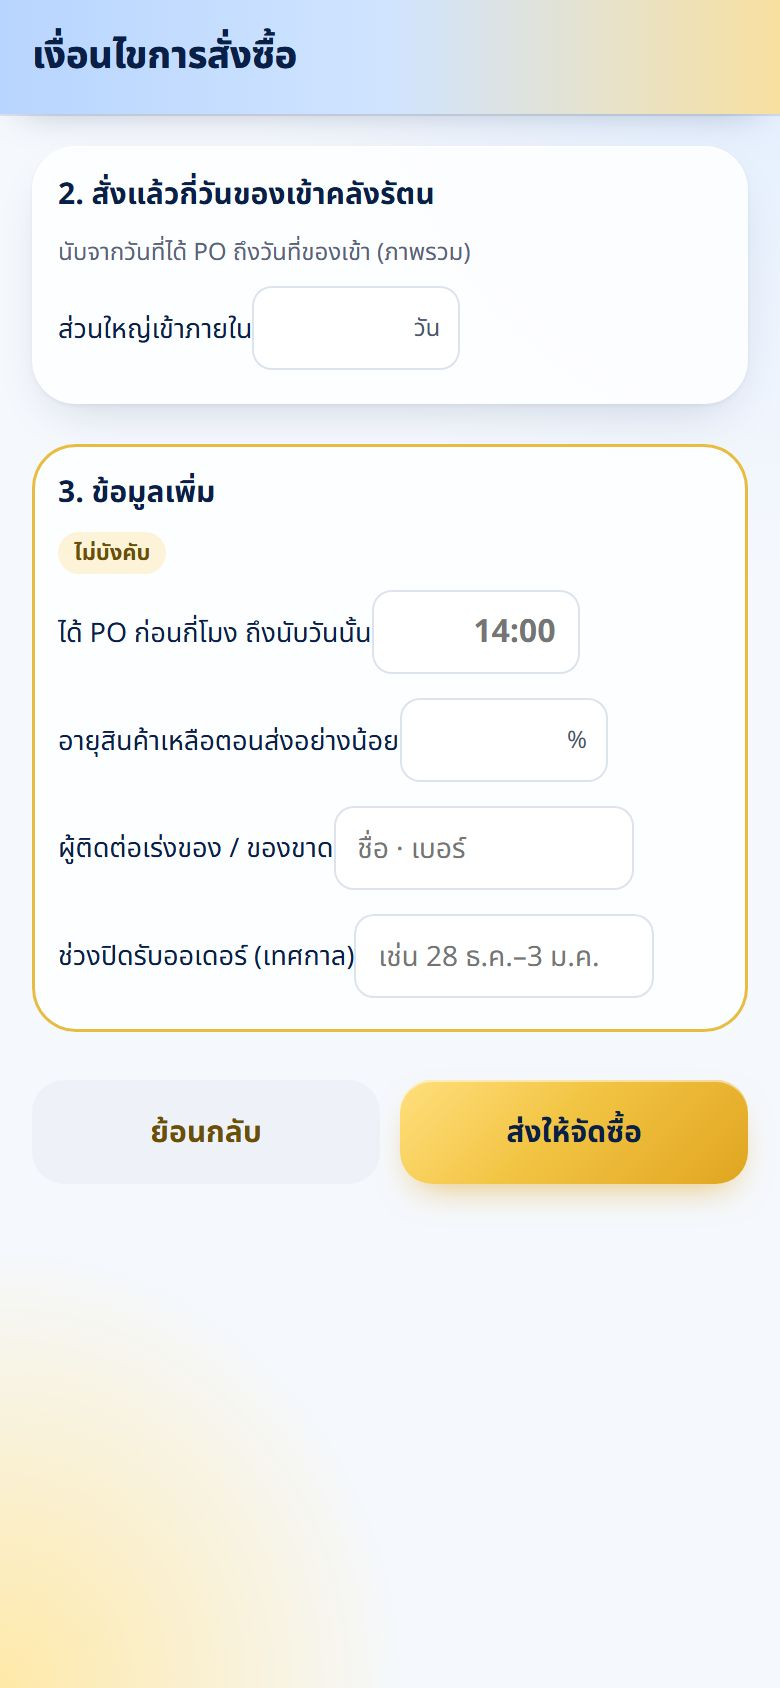
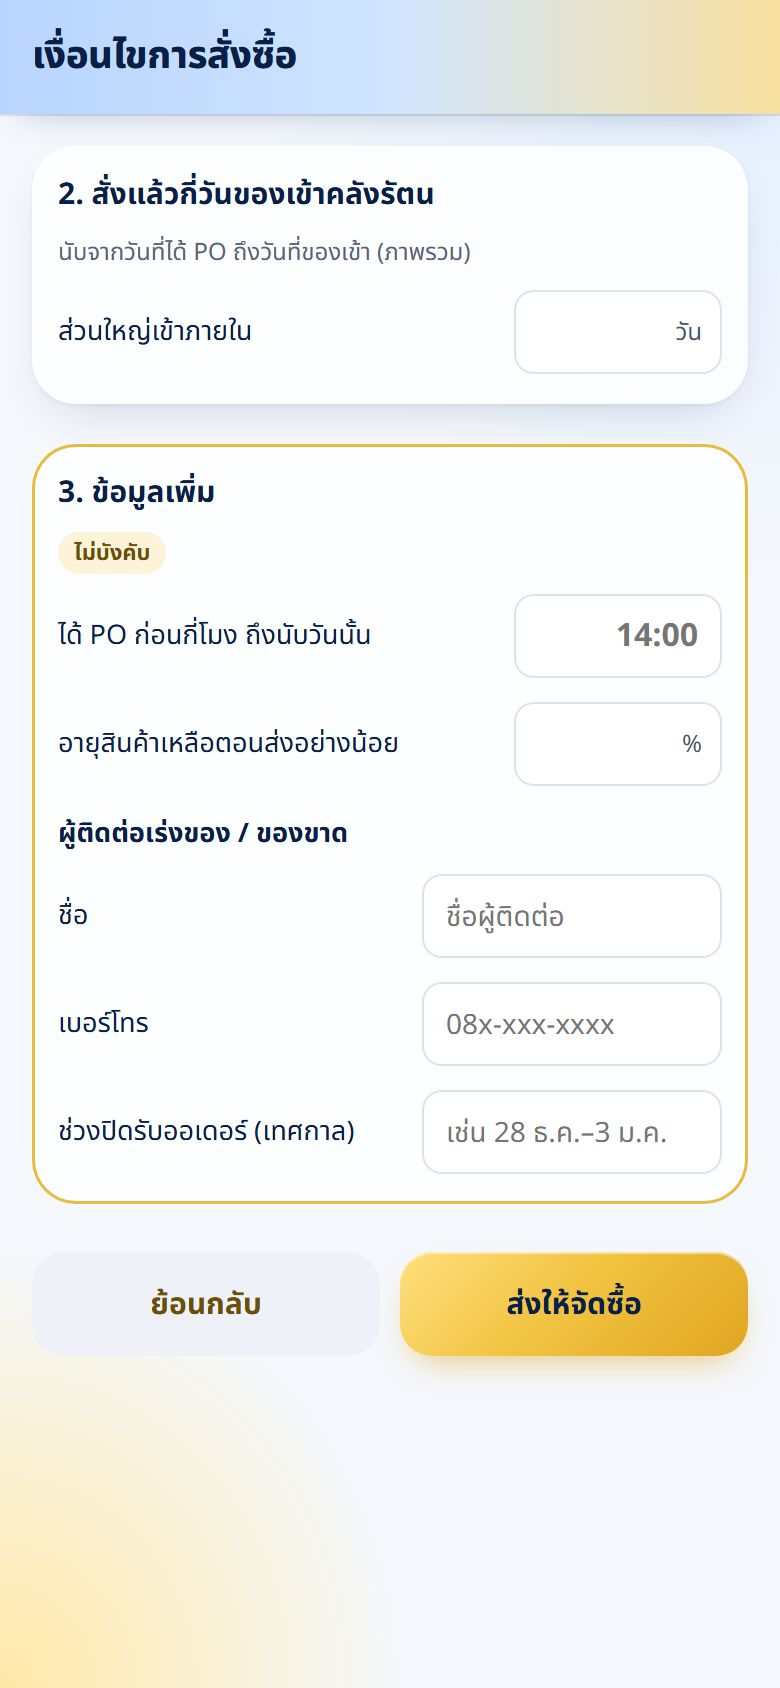
SupplyLink v1.79.3: แบบสอบถาม ช่องกรอกชิดขวา + ชื่อ/เบอร์ผู้ติดต่อแยกช่อง · guide v1.9.2

diff --git a/rattana-supplylink.html b/rattana-supplylink.html
@@ -3,7 +3,7 @@
 <head>
 <meta charset="utf-8">
 <meta name="viewport" content="width=device-width, initial-scale=1, viewport-fit=cover">
-<title>SupplyLink — คู่ค้ารัตนไพบูลย์ v1.79.2</title>
+<title>SupplyLink — คู่ค้ารัตนไพบูลย์ v1.79.3</title>
 <meta name="theme-color" content="#B8D5FF">
 <link rel="icon" type="image/png" sizes="64x64" href="icons/rattana-supplylink-64.png">
 <link rel="icon" type="image/png" sizes="256x256" href="icons/rattana-supplylink.png">
@@ -1469,7 +1469,7 @@ body{font-family:var(--font);
 .otopt{display:flex;align-items:center;gap:10px;border:0;background:var(--fill);border-radius:12px;padding:8px 10px;text-align:left;font:inherit;color:inherit;width:100%}.otopt.on{background:var(--gold-tint);box-shadow:inset 0 0 0 1.5px var(--gold)}.otopt b{display:block;font-size:13.5px}.otopt small{display:block;font-size:11.5px;color:var(--ink-3)}.otopt{cursor:pointer}.otck{width:22px;height:22px;border-radius:6px;border:2px solid #B9C3D4;background:var(--card);flex-shrink:0;position:relative}.otck.on{background:var(--navy);border-color:var(--navy)}.otck.on:after{content:'✓';color:#fff;font-size:13px;position:absolute;left:4px;top:0}
 .otsub{display:flex;flex-direction:column;gap:6px;padding:8px 0 4px 10px;border-left:2px solid var(--line)}
 .otin{display:inline-flex;align-items:center;gap:4px;height:42px;border-radius:10px;background:var(--card);box-shadow:inset 0 0 0 1px var(--line);padding:0 10px;flex-shrink:0;width:104px}.otin.w{width:150px}.otin input{border:0;background:transparent;width:100%;min-width:0;font:inherit;font-size:16px;font-weight:700;text-align:right;color:var(--ink);outline:0}.otin.w input{font-weight:400;font-size:14px;text-align:left}.otin i{font-style:normal;font-size:12px;color:var(--ink-3)}
-.otrow{gap:8px;min-height:46px;font-size:13.5px}
+.otrow{display:flex;align-items:center;gap:8px;min-height:46px;font-size:13.5px}.otrow>.grow{flex:1 1 auto;min-width:0}.otrow>.otin{margin-left:auto}.otlbl{font-size:13.5px;font-weight:700;margin-top:4px}
 .otpromo{display:flex;flex-direction:column;gap:6px;background:var(--teal-soft);border-radius:12px;padding:10px}.otph{font-size:13px;color:var(--teal)}.otsfi{display:flex;flex-direction:column;gap:6px;background:var(--card);border-radius:10px;padding:9px}.otpg{display:grid;grid-template-columns:1fr 1fr;gap:8px}.otpg label{display:flex;flex-direction:column;gap:3px;font-size:11.5px;color:var(--ink-3)}.otpg .otin{width:100%}.otsum{font-size:12.5px;font-weight:700;color:var(--teal);min-height:16px}.otadd{border:1.5px dashed var(--gold);background:transparent;border-radius:10px;padding:8px;font:inherit;font-size:12.5px;font-weight:700;color:var(--gold-deep)}
 .otb{display:flex;flex-direction:column;gap:7px}.otex{display:block;font-size:11.5px;color:var(--ink-3);white-space:normal}.otzr{display:flex;flex-direction:column;padding-bottom:6px;border-bottom:1px solid var(--line)}
 .otsug{box-shadow:inset 0 0 0 1.5px var(--gold)}.ottag{align-self:flex-start;font-size:11px;font-weight:700;background:var(--gold-tint);color:var(--gold-deep);border-radius:var(--r-pill);padding:2px 8px}
@@ -2038,7 +2038,7 @@ body.otgate #tabbar,body.otgate #railnav{display:none!important}
 
 /* ══ ตั้งค่า — แก้ตรงนี้ที่เดียว ══ */
 var CONFIG = {
-  APP_VERSION: 'v1.79.2',
+  APP_VERSION: 'v1.79.3',
   /* LIFF ของแอปนี้: LINE Developers → provider RTNPurchase → channel "RTNPurchase Supplier" (2011693023) → แท็บ LIFF
      ต้องอยู่ channel เดียวกับระบบลงทะเบียนเดิม ถึงจะได้ LINE User ID ตรงกับแท็บ Login Users · ว่าง = ยังไม่เปิดใช้จริง */
   LIFF_ID: '2011693023-xbdsN1K7',
@@ -4065,13 +4065,14 @@ function otBrandSt(b){ var o = S.ot.brands; return o[b] || (o[b] = { modes:[], c
 function otInit(){
   if (S.ot && S.ot.code === VENDOR.code) return S.ot;
   var d = BUNDLE && BUNDLE.orderTerms && BUNDLE.orderTerms.data || null;
-  var o = { code:VENDOR.code, step:1, q:'', all:{ on:false, cs:'', baht:'', tiers:[otTier()], pay:'in' }, some:false, none:false, brands:{}, lead:'', cut:'', life:'', contact:'', close:'' };
+  var o = { code:VENDOR.code, step:1, q:'', all:{ on:false, cs:'', baht:'', tiers:[otTier()], pay:'in' }, some:false, none:false, brands:{}, lead:'', cut:'', life:'', contact:'', cname:'', ctel:'', close:'' };
   if (d) {
     if (d.all) o.all = { on:true, cs:String(d.all.cs || ''), baht:String(d.all.baht || ''), tiers:(d.all.tiers || []).length ? d.all.tiers.map(function (t) { return { q:String(t.q), t:t.t, v:String(t.v) }; }) : [otTier()], pay:d.all.pay || 'in' };
     o.some = !!d.some; o.none = !!d.none;
     (d.brands || []).forEach(function (b) { var x = { modes:b.modes || [], cs:String(b.cs || ''), tiers:(b.tiers || []).length ? b.tiers.map(function (t) { return { q:String(t.q), t:t.t, v:String(t.v) }; }) : [otTier()], pay:b.pay || 'in', sizes:{}, prods:{} };
       (b.sizes || []).forEach(function (z) { x.sizes[z.s] = String(z.cs); }); (b.prods || []).forEach(function (z) { x.prods[z.id] = String(z.cs); }); o.brands[b.b] = x; });
     ['lead', 'cut', 'life', 'contact', 'close'].forEach(function (k) { o[k] = String(d[k] || ''); });
+    var ocp = o.contact.split(' · '); o.cname = String(d.cname || ocp[0] || ''); o.ctel = String(d.ctel || ocp.slice(1).join(' ') || '');   /* ชื่อ/เบอร์ แยกช่อง (เก็บรวมเป็น ชื่อ · เบอร์ เหมือนเดิม) */
   }
   return (S.ot = o);
 }
@@ -4131,10 +4132,12 @@ V.terms = function () {
     '<div class="card otq otsug" data-tweak="ข้อมูลเพิ่ม"><b>3. ข้อมูลเพิ่ม</b><span class="ottag">ไม่บังคับ</span>'+
       '<div class="row otrow"><span class="grow">ได้ PO ก่อนกี่โมง ถึงนับวันนั้น</span>'+otInp('cut', o.cut, '', '14:00')+'</div>'+
       '<div class="row otrow"><span class="grow">อายุสินค้าเหลือตอนส่งอย่างน้อย</span>'+otInp('life', o.life, '%')+'</div>'+
-      '<div class="row otrow"><span class="grow">ผู้ติดต่อเร่งของ / ของขาด</span>'+otInp('contact', o.contact, '', 'ชื่อ · เบอร์', true)+'</div>'+
+      '<div class="otlbl">ผู้ติดต่อเร่งของ / ของขาด</div>'+
+      '<div class="row otrow"><span class="grow">ชื่อ</span>'+otInp('cname', o.cname, '', 'ชื่อผู้ติดต่อ', true)+'</div>'+
+      '<div class="row otrow"><span class="grow">เบอร์โทร</span>'+otInp('ctel', o.ctel, '', '08x-xxx-xxxx', true).replace('inputmode="text"', 'inputmode="tel"')+'</div>'+
       '<div class="row otrow"><span class="grow">ช่วงปิดรับออเดอร์ (เทศกาล)</span>'+otInp('close', o.close, '', 'เช่น 28 ธ.ค.–3 ม.ค.', true)+'</div></div>';
   var last = step === 3, next = step === 1 && !o.some ? 3 : step + 1, prev = step === 3 && !o.some ? 1 : step - 1;
-  var force = need || S.otForce;                                  /* v1.79.2: ยังไม่ตอบ / มาจากปุ่ม LINE = ต้องตอบให้จบ ไม่มีปุ่มปิด/กลับ (Surat) */
+  var force = need || S.otForce;                                  /* v1.79.3: ยังไม่ตอบ / มาจากปุ่ม LINE = ต้องตอบให้จบ ไม่มีปุ่มปิด/กลับ (Surat) */
   return '<div class="scr" id="s-terms">'+hdr('เงื่อนไขการสั่งซื้อ', force ? '' : 'profile')+
     '<div class="body" data-tweak="เงื่อนไขการสั่งซื้อ">'+body+   /* ปุ่มอยู่ท้ายเนื้อหา เลื่อนลงสุดแล้วค่อยกด */
     '<div class="otbar" data-tweak="แถบปุ่มแบบสอบถาม">'+(step > 1 ? '<button class="btn line" data-act="otstep:'+prev+'">ย้อนกลับ</button>' : '')+
@@ -4147,7 +4150,7 @@ function otPayload(){
     brands:o.some ? G.map(function (g) { var st = o.brands[g.b]; if (!st || !st.modes.length) return null;
       return { b:g.b, modes:st.modes, cs:num(st.cs), tiers:tiers(st.tiers), pay:st.pay, sizes:g.sizes.map(function (z) { return { s:z.s, cs:num(st.sizes[z.s]) }; }).filter(function (z) { return z.cs; }),
         prods:g.items.map(function (p) { return { id:p.id, name:p.name, cs:num(st.prods[p.id]) }; }).filter(function (z) { return z.cs; }) }; }).filter(Boolean) : [],
-    lead:num(o.lead), cut:o.cut, life:num(o.life), contact:o.contact, close:o.close };
+    lead:num(o.lead), cut:o.cut, life:num(o.life), contact:[String(o.cname || '').trim(), String(o.ctel || '').trim()].filter(Boolean).join(' · '), cname:String(o.cname || '').trim(), ctel:String(o.ctel || '').trim(), close:o.close };
 }
 
 /* ══ สินค้าที่ซัพเอามาให้ (CB) (v1.77 · Surat 2026-11-05) ══

diff --git a/supplylink-guide.html b/supplylink-guide.html
@@ -3,7 +3,7 @@
 <head>
 <meta charset="utf-8">
 <meta name="viewport" content="width=device-width,initial-scale=1,viewport-fit=cover">
-<title>ฝึกใช้ SupplyLink v1.9.1</title>
+<title>ฝึกใช้ SupplyLink v1.9.2</title>
 <link rel="preconnect" href="https://fonts.googleapis.com">
 <link href="https://fonts.googleapis.com/css2?family=Noto+Sans+Thai:wght@400;500;600;700&display=swap" rel="stylesheet">
 <style>
@@ -138,7 +138,7 @@ button{font:inherit;cursor:pointer}
 
 <script>
 (function () {
-  var VER = 'v1.9.1', APP = 'https://liff.line.me/2011693023-xbdsN1K7';
+  var VER = 'v1.9.2', APP = 'https://liff.line.me/2011693023-xbdsN1K7';
   var IMG = {"h0":"supplylink-guide/h0.jpg","hinc":"supplylink-guide/hinc.jpg","hdef":"supplylink-guide/hdef.jpg","hpo":"supplylink-guide/hpo.jpg","s2":"supplylink-guide/s2.jpg","s4":"supplylink-guide/s4.jpg","s5":"supplylink-guide/s5.jpg","s6":"supplylink-guide/s6.jpg","s7":"supplylink-guide/s7.jpg","s9":"supplylink-guide/s9.jpg","s10":"supplylink-guide/s10.jpg","s11":"supplylink-guide/s11.jpg","z1":"supplylink-guide/z1.jpg","zm":"supplylink-guide/zm.jpg","zt":"supplylink-guide/zt.jpg","zs":"supplylink-guide/zs.jpg","zi":"supplylink-guide/zi.jpg","q1":"supplylink-guide/q1.jpg","q2":"supplylink-guide/q2.jpg","q3":"supplylink-guide/q3.jpg","q4":"supplylink-guide/q4.jpg","q5":"supplylink-guide/q5.jpg","q6":"supplylink-guide/q6.jpg","q7":"supplylink-guide/q7.jpg","q8":"supplylink-guide/q8.jpg","x1":"supplylink-guide/x1.jpg","x2":"supplylink-guide/x2.jpg","x3":"supplylink-guide/x3.jpg","x4":"supplylink-guide/x4.jpg","x5":"supplylink-guide/x5.jpg","x6":"supplylink-guide/x6.jpg","x7":"supplylink-guide/x7.jpg","a2":"supplylink-guide/a2.jpg","a3":"supplylink-guide/a3.jpg","a5":"supplylink-guide/a5.jpg","d2":"supplylink-guide/d2.jpg","a4":"supplylink-guide/a4.jpg","d3":"supplylink-guide/d3.jpg","d4":"supplylink-guide/d4.jpg","p1":"supplylink-guide/p1.jpg","p1b":"supplylink-guide/p1b.jpg","b2":"supplylink-guide/b2.jpg","b3":"supplylink-guide/b3.jpg","p5":"supplylink-guide/p5.jpg","c2":"supplylink-guide/c2.jpg","c3":"supplylink-guide/c3.jpg","k1":"supplylink-guide/k1.jpg","k2":"supplylink-guide/k2.jpg","k3":"supplylink-guide/k3.jpg","k4":"supplylink-guide/k4.jpg","k5":"supplylink-guide/k5.jpg","k6":"supplylink-guide/k6.jpg","k7":"supplylink-guide/k7.jpg","k9":"supplylink-guide/k9.jpg","k10":"supplylink-guide/k10.jpg","k11":"supplylink-guide/k11.jpg","n1":"supplylink-guide/n1.jpg","n2":"supplylink-guide/n2.jpg","n3":"supplylink-guide/n3.jpg","n4":"supplylink-guide/n4.jpg","n5":"supplylink-guide/n5.jpg","n6":"supplylink-guide/n6.jpg","n7":"supplylink-guide/n7.jpg","n8":"supplylink-guide/n8.jpg","n9":"supplylink-guide/n9.jpg","g1":"supplylink-guide/g1.jpg","g2":"supplylink-guide/g2.jpg","g3":"supplylink-guide/g3.jpg","g4":"supplylink-guide/g4.jpg","m1":"supplylink-guide/m1.jpg","m2":"supplylink-guide/m2.jpg","m3":"supplylink-guide/m3.jpg","m4":"supplylink-guide/m4.jpg","m5":"supplylink-guide/m5.jpg","f1":"supplylink-guide/f1.jpg","f2":"supplylink-guide/f2.jpg","f3":"supplylink-guide/f3.jpg","f4":"supplylink-guide/f4.jpg","dws":"supplylink-guide/dws.jpg","dwh":"supplylink-guide/dwh.jpg","stk":"supplylink-guide/stk.jpg","stk2":"supplylink-guide/stk2.jpg","stkh":"supplylink-guide/stkh.jpg","cbi":"supplylink-guide/cbi.jpg","cb1":"supplylink-guide/cb1.jpg","cb2":"supplylink-guide/cb2.jpg","cb3":"supplylink-guide/cb3.jpg","cbp":"supplylink-guide/cbp.jpg","ot0":"supplylink-guide/ot0.jpg","ot1":"supplylink-guide/ot1.jpg","ot2":"supplylink-guide/ot2.jpg","ot3":"supplylink-guide/ot3.jpg"};                                       /* แทนด้วยรูปตอน build */
   var HAND = '<svg class="hand" viewBox="0 0 48 48" aria-hidden="true"><path d="M19 6c2 0 3.5 1.6 3.5 3.6V22l1-.1V18c0-2 1.6-3.4 3.4-3.4S30.3 16 30.3 18v4.4l1-.1v-2.6c0-1.9 1.5-3.3 3.3-3.3s3.3 1.5 3.3 3.3v3.6l.8-.1c1.8 0 3.3 1.5 3.3 3.3V34c0 6.6-5.4 12-12 12h-3.4c-3.8 0-7.4-1.8-9.6-4.9L8.5 30.6c-1-1.4-.7-3.4.7-4.4 1.4-1 3.3-.8 4.4.5l2 2.4V9.6C15.6 7.6 17.1 6 19 6z" fill="#fff" stroke="#0A1F47" stroke-width="2.4" stroke-linejoin="round"/></svg>';
   var FLOWCARD = function () {                              /* ส่งแล้วเกิดอะไรขึ้น: ซัพตอบ → จัดซื้อยืนยัน → เปิด PO จริง */
@@ -256,8 +256,8 @@ button{font:inherit;cursor:pointer}
       { img:'ot1', r:[29, 338, 332, 53], h:'ตอบก่อนใช้แอป', d:'บริษัทที่ยังไม่ตอบ เปิดแอปจะเจอหน้านี้ก่อน · เลือกได้หลายข้อ: รวมทุกแบรนด์ · บางแบรนด์มีขั้นต่ำ · ไม่มีขั้นต่ำ' },
       { img:'ot1', r:[112, 415, 67, 26], h:'ขั้นต่ำถึงส่ง + โปรตามจำนวน', d:'ใส่ขั้นต่ำเป็นลังหรือบาท · สั่งเท่าไรได้โปร เลือก ลด บาท/ลัง · ลด % · แถม (ลัง) เพิ่มได้หลายขั้น', fx:'type', fxt:'100' },
       { img:'ot2', r:[31, 260, 93, 44], h:'รายแบรนด์', d:'ทั้งแบรนด์ = ใส่ช่องเดียว · ต่อขนาดกับต่อสินค้าเลือกพร้อมกันได้ · ไม่มีขั้นต่ำไม่ต้องแตะ' },
-      { img:'ot3', r:[136, 151, 67, 26], h:'สั่งแล้วกี่วันของเข้า', d:'ภาพรวมทุกคลัง นับจากวันที่ได้ PO ถึงวันที่ของเข้า', fx:'type', fxt:'3' },
-      { img:'ot3', r:[200, 540, 174, 52], h:'ส่งให้จัดซื้อ', d:'ส่งแล้วใช้แอปได้ตามปกติ · แก้ได้ทุกเมื่อที่ หน้าบัญชี › เงื่อนไขการสั่งซื้อ' }
+      { img:'ot3', r:[267, 153, 67, 26], h:'สั่งแล้วกี่วันของเข้า', d:'ภาพรวมทุกคลัง นับจากวันที่ได้ PO ถึงวันที่ของเข้า', fx:'type', fxt:'3' },
+      { img:'ot3', r:[200, 626, 174, 52], h:'ส่งให้จัดซื้อ', d:'ส่งแล้วใช้แอปได้ตามปกติ · แก้ได้ทุกเมื่อที่ หน้าบัญชี › เงื่อนไขการสั่งซื้อ' }
     ], end:'ตอบครั้งเดียวต่อบริษัท · เซลคนไหนตอบก็ได้ · รัตนใช้คำนวณการสั่งให้ตรงเงื่อนไข' },
     { k:'cb', t:'สินค้าที่ส่งมาให้ (CB)', g:'สินค้า CB', s:'ชดเชยราคา · รายการ · โปร · ลดทุน PO', n:6, steps:[
       { img:'cbi', r:[16, 485, 358, 74], h:'หน้าแรก › รายได้อื่น › สินค้าที่ส่งมาให้ (CB)', d:'ของที่ส่งมาให้รัตนตามเอกสาร CB ใน 180 วัน เลือกไปใช้ได้รายการละครั้ง' },
